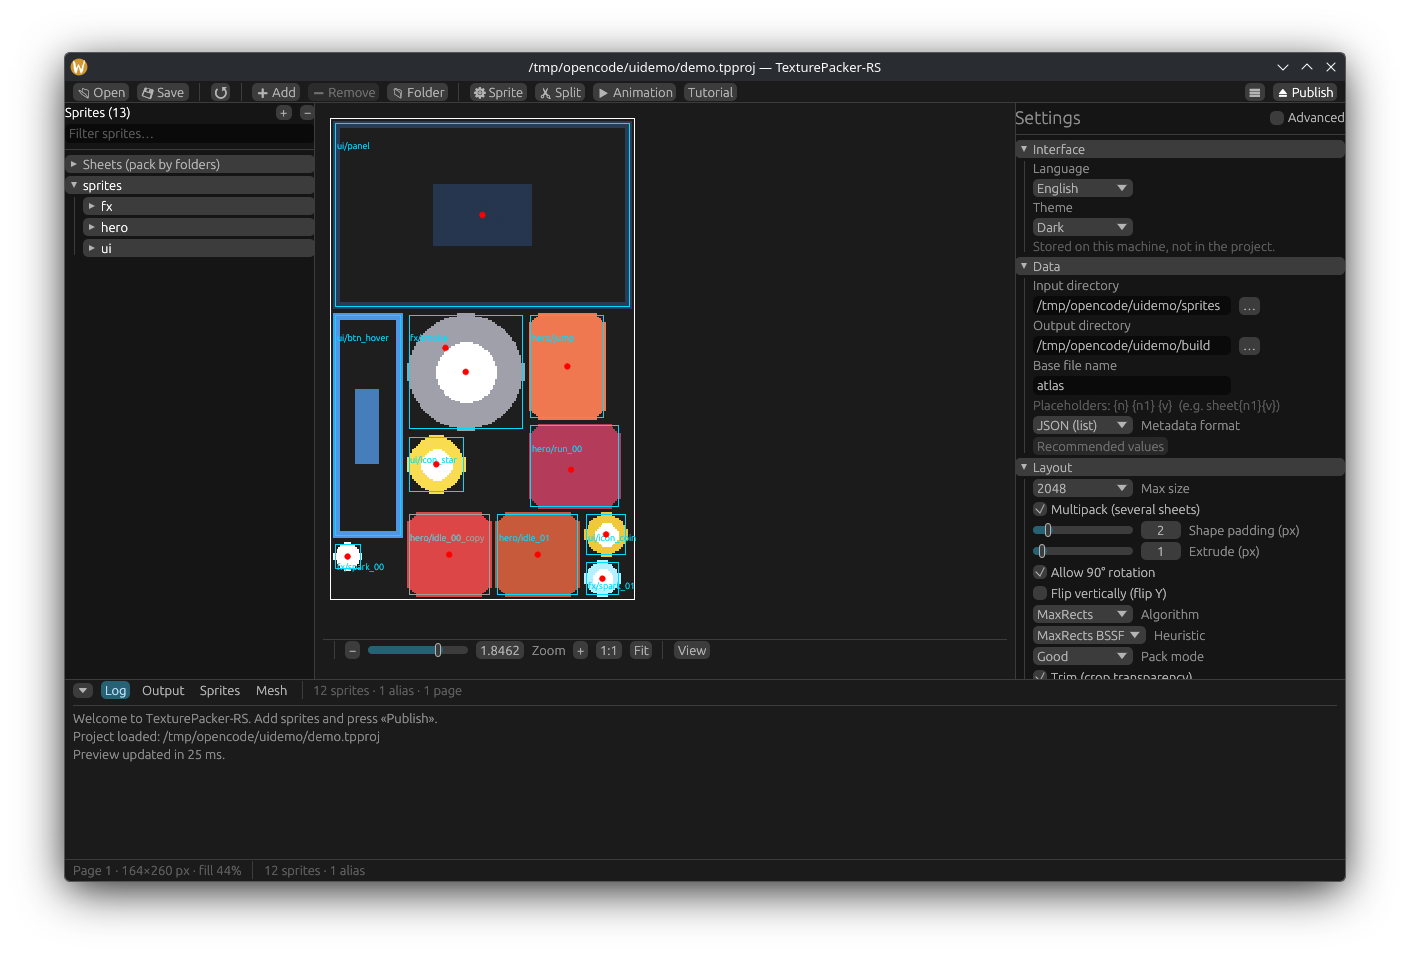
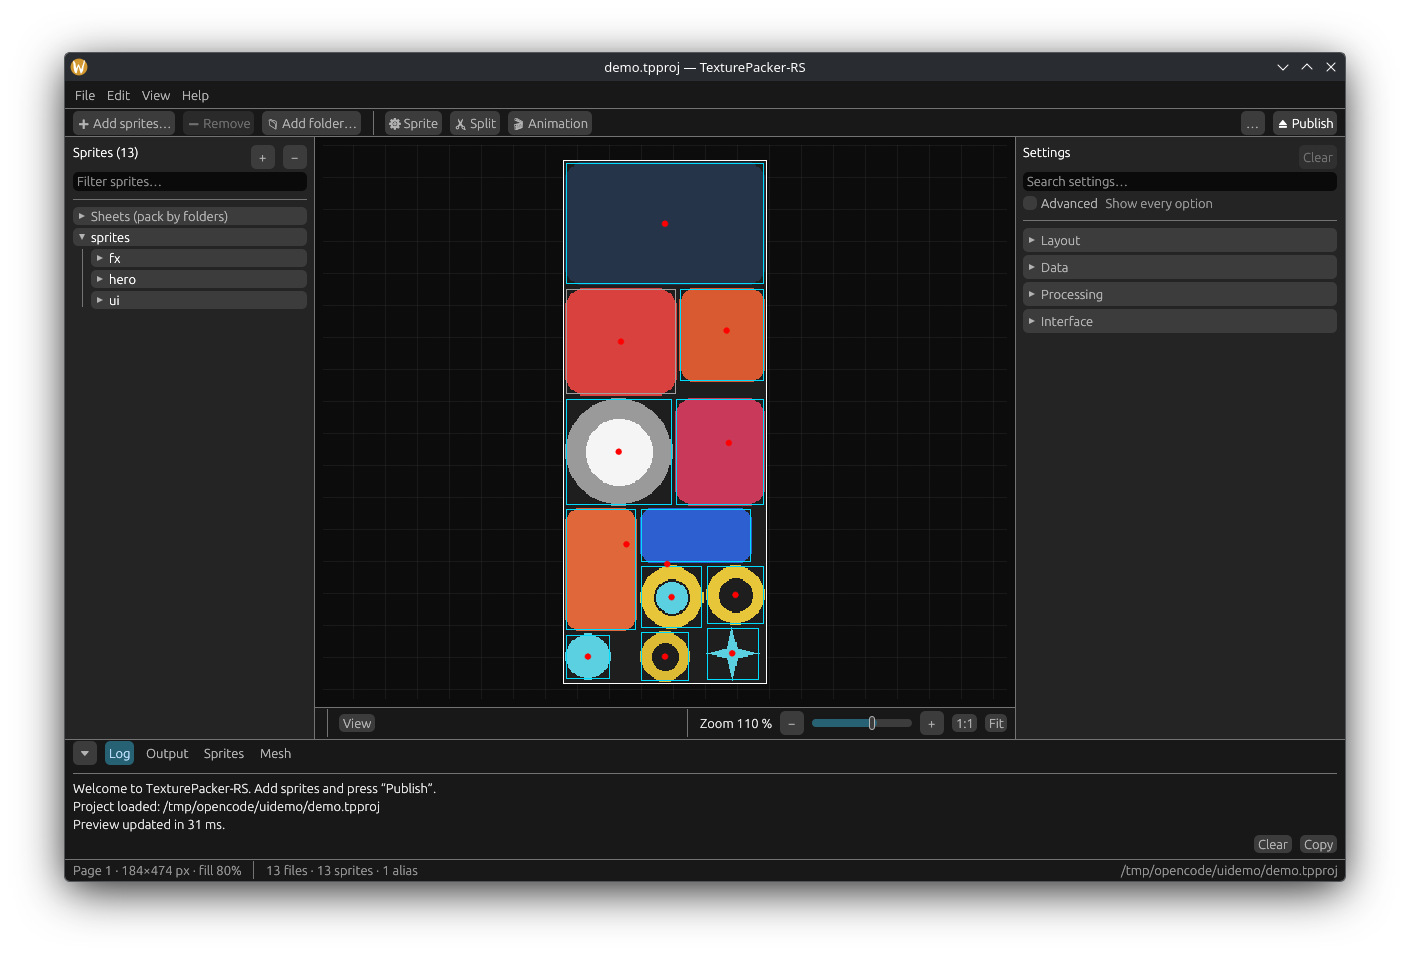
docs(readme): las capturas enseñan el rediseño y la cita del pie va con ellas
Las tres capturas eran del 5 de octubre: mostraban la interfaz
anterior —sin barra de menús y con las acciones de proyecto mezcladas
en la toolbar— justo cuando el README describe el rediseño (menús
«Archivo/Edición/Ver/Ayuda», toolbar de sprites con ➕/➖/📁/⚙/✂/🎬 y
«⏏ Publicar» con su menú). Se regeneran con el mismo método con el que
se tomaron las originales: binario de depuración con el .tpproj de
ejemplo en cada combinación de idioma y tema, ventana activa
fotografiada con spectacle y el ui.toml de preferencias restaurado al
terminar (la sesión queda como estaba). El demo se regenera en
/tmp/opencode/uidemo con 13 ficheros (12 únicos y una copia byte a
byte, para el alias) y un .tpproj canónico generado con `tp-cli
--save`.

De paso, la cita de los plurales quedó desfasada: la barra de estado
ya no pone «12 sprites · 1 alias · 1 page» al lado de las pestañas,
sino «13 files · 13 sprites · 1 alias» al pie; se actualiza en los dos
idiomas. Los pies de captura se comprueban uno a uno contra la imagen
nueva (encuadre automático, filete de página, idiomas y rutas).

diff --git a/README.es.md b/README.es.md
@@ -37,9 +37,10 @@ página dentro del lienzo.
 |-------------|------------|
 | ![TexturePacker-RS en tema oscuro: árbol de sprites, vista previa del atlas con contornos, pivots y filete de página, y panel de ajustes](docs/screenshots/principal-oscuro.png) | ![TexturePacker-RS en tema claro, con la misma pantalla](docs/screenshots/principal-claro.png) |
 
-La misma pantalla en inglés, que es como se ven los plurales concordados
-(«12 sprites · 1 alias · 1 page»). Idioma y tema se eligen en
-**Ajustes → Interfaz** y se guardan en el equipo, no en el proyecto:
+La misma pantalla en inglés, que es como se ven los plurales
+concordados de la barra de estado («13 files · 13 sprites · 1 alias»).
+Idioma y tema se eligen en **Ajustes → Interfaz** y se guardan en el
+equipo, no en el proyecto:
 
 ![TexturePacker-RS con la interfaz en inglés](docs/screenshots/interfaz-en.png)
 

diff --git a/README.md b/README.md
@@ -39,8 +39,8 @@ load and the thin border marks the page limit inside the canvas.
 The same screen in English — the screenshots above show the Spanish
 interface, the other of the two languages the app ships in. Language and
 theme are chosen under **Settings → Interface** and are stored per machine,
-not per project; in English the plurals read concorded
-(«12 sprites · 1 alias · 1 page»):
+not per project; in English the plurals of the status bar read
+concorded («13 files · 13 sprites · 1 alias»):
 
 ![TexturePacker-RS with the interface in English](docs/screenshots/interfaz-en.png)
 
